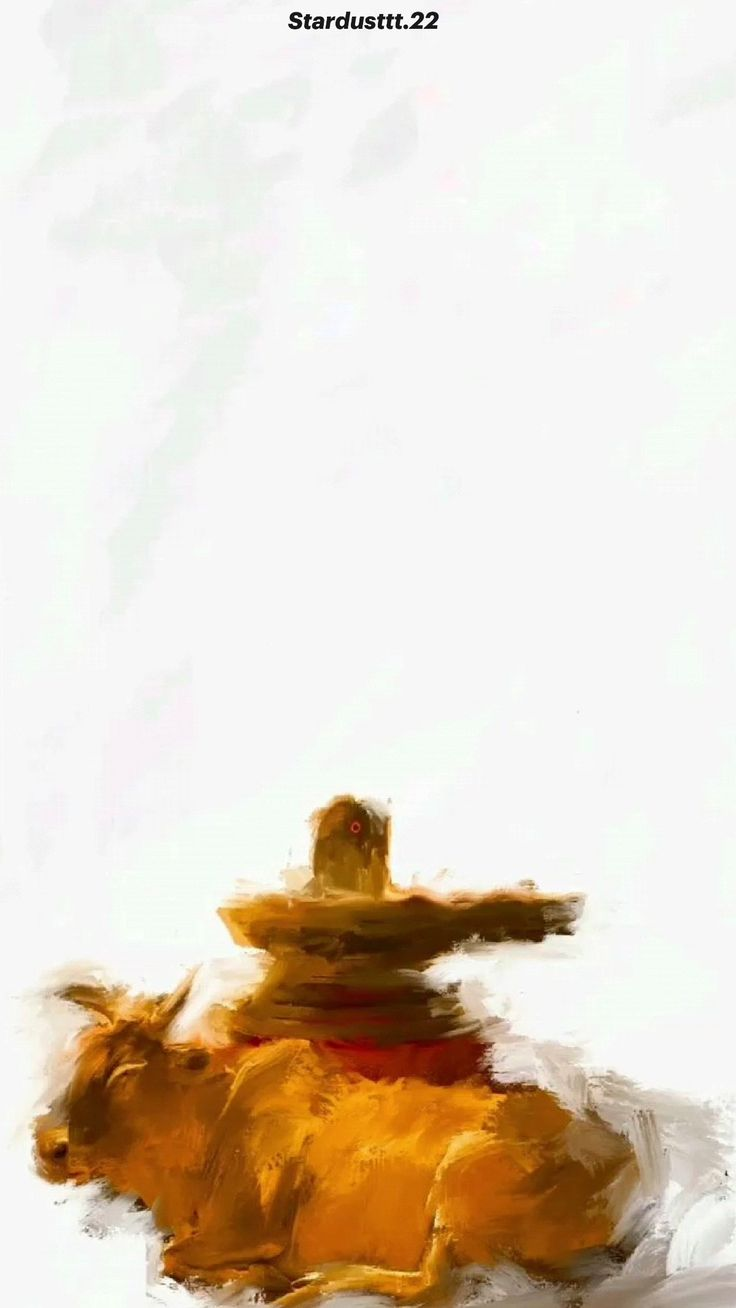
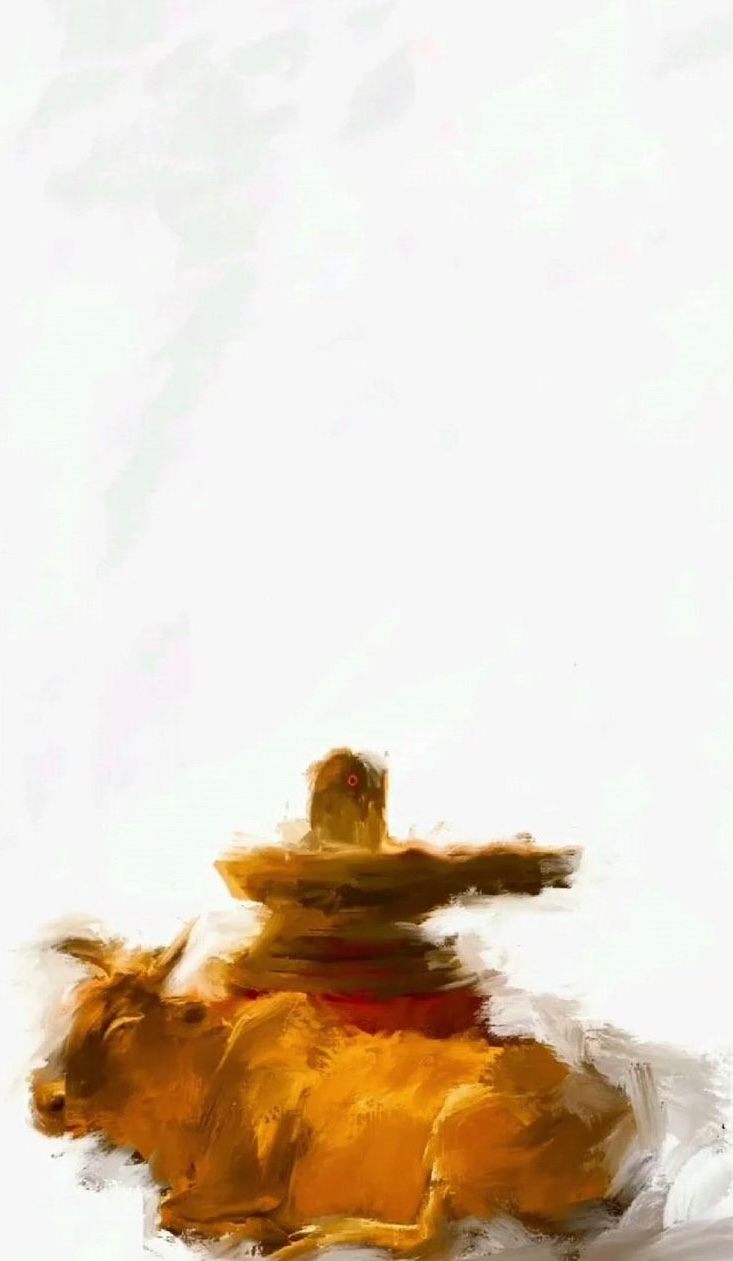
rendering changes

diff --git a/src/image_renderer.py b/src/image_renderer.py
@@ -1,7 +1,6 @@
 """Renders a verse onto a base image and saves to posts/."""
 from __future__ import annotations
 
-import textwrap
 from pathlib import Path
 from typing import Iterable
 
@@ -85,7 +84,6 @@ def _draw_block(
         w = bbox[2] - bbox[0]
         h = bbox[3] - bbox[1]
         x = center_x - w // 2
-        # Subtle shadow for readability over photo
         draw.text((x + 2, y + 2), line, font=font, fill=(0, 0, 0))
         draw.text((x, y), line, font=font, fill=fill)
         y += h + line_spacing
@@ -98,17 +96,14 @@ def _prepare_base(image_path: Path) -> Image.Image:
     target_ratio = config.IMG_WIDTH / config.IMG_HEIGHT
     src_ratio = img.width / img.height
     if src_ratio > target_ratio:
-        # Source is wider; crop sides
         new_width = int(img.height * target_ratio)
         left = (img.width - new_width) // 2
         img = img.crop((left, 0, left + new_width, img.height))
     else:
-        # Source is taller; crop top/bottom
         new_height = int(img.width / target_ratio)
         top = (img.height - new_height) // 2
         img = img.crop((0, top, img.width, top + new_height))
     img = img.resize((config.IMG_WIDTH, config.IMG_HEIGHT), Image.LANCZOS)
-    # A subtle blur softens busy backgrounds for text readability
     img = img.filter(ImageFilter.GaussianBlur(radius=1.2))
     return img
 
@@ -117,58 +112,77 @@ def render_verse(
     base_image_path: Path,
     devanagari_text: str,
     iast_text: str,
+    translation_en: str,
     output_path: Path,
     handle: str | None = None,
 ) -> Path:
     """Render the post image and save to output_path. Returns output_path."""
     base = _prepare_base(base_image_path)
+    composite = base.convert("RGBA")
 
-    # Translucent orange overlay for warmth + text legibility
-    overlay = Image.new(
-        "RGBA",
-        (config.IMG_WIDTH, config.IMG_HEIGHT),
-        (*config.OVERLAY_COLOR, config.OVERLAY_OPACITY),
-    )
-    composite = Image.alpha_composite(base.convert("RGBA"), overlay)
+    # Temporary draw surface for text measurement
     draw = ImageDraw.Draw(composite)
 
     devanagari_font = _load_font(config.FONT_DEVANAGARI, config.DEVANAGARI_FONT_SIZE)
-    iast_font = _load_font(config.FONT_IAST, config.IAST_FONT_SIZE)
+    iast_font      = _load_font(config.FONT_IAST,       config.IAST_FONT_SIZE)
+    english_font   = _load_font(config.FONT_HANDLE,     config.ENGLISH_FONT_SIZE)
 
     max_text_width = config.IMG_WIDTH - 2 * config.SIDE_PADDING
 
-    # Wrap blocks
+    # Wrap all three blocks
     devanagari_lines = _wrap_to_width(devanagari_text, devanagari_font, draw, max_text_width)
-    iast_lines = _wrap_to_width(iast_text, iast_font, draw, max_text_width)
+    iast_lines       = _wrap_to_width(iast_text,       iast_font,       draw, max_text_width)
+    english_lines    = _wrap_to_width(translation_en,  english_font,    draw, max_text_width)
 
-    # Measure for vertical centering
+    # Measure total text height
     _, dev_h = _measure_block(devanagari_lines, devanagari_font, draw, config.LINE_SPACING_DEVANAGARI)
-    _, iast_h = _measure_block(iast_lines, iast_font, draw, config.LINE_SPACING_IAST)
-    total_h = dev_h + config.GAP_BETWEEN_BLOCKS + iast_h
+    _, iast_h = _measure_block(iast_lines,      iast_font,       draw, config.LINE_SPACING_IAST)
+    _, eng_h  = _measure_block(english_lines,   english_font,    draw, config.LINE_SPACING_ENGLISH)
 
-    start_y = max(120, (config.IMG_HEIGHT - total_h) // 2)
+    total_text_h = (
+        dev_h
+        + config.GAP_BETWEEN_BLOCKS
+        + iast_h
+        + config.GAP_BETWEEN_BLOCKS
+        + eng_h
+    )
+
+    # Panel bounds — centered vertically, padded on all sides
+    pad = config.TEXT_PANEL_PADDING
+    panel_top    = max(80, (config.IMG_HEIGHT - total_text_h) // 2 - pad)
+    panel_bottom = panel_top + total_text_h + 2 * pad
+    panel_left   = config.SIDE_PADDING - pad
+    panel_right  = config.IMG_WIDTH - config.SIDE_PADDING + pad
+
+    # Draw semi-transparent orange panel only behind text
+    panel = Image.new("RGBA", (config.IMG_WIDTH, config.IMG_HEIGHT), (0, 0, 0, 0))
+    ImageDraw.Draw(panel).rounded_rectangle(
+        [panel_left, panel_top, panel_right, panel_bottom],
+        radius=config.TEXT_PANEL_CORNER_RADIUS,
+        fill=(*config.OVERLAY_COLOR, config.OVERLAY_OPACITY),
+    )
+    composite = Image.alpha_composite(composite, panel)
+    draw = ImageDraw.Draw(composite)
+
+    # Draw text
     center_x = config.IMG_WIDTH // 2
+    text_top  = panel_top + pad
 
     after_dev = _draw_block(
-        draw,
-        devanagari_lines,
-        devanagari_font,
-        center_x,
-        start_y,
-        config.LINE_SPACING_DEVANAGARI,
-        config.TEXT_COLOR,
+        draw, devanagari_lines, devanagari_font, center_x,
+        text_top, config.LINE_SPACING_DEVANAGARI, config.TEXT_COLOR,
+    )
+    after_iast = _draw_block(
+        draw, iast_lines, iast_font, center_x,
+        after_dev + config.GAP_BETWEEN_BLOCKS, config.LINE_SPACING_IAST, config.TEXT_COLOR,
     )
     _draw_block(
-        draw,
-        iast_lines,
-        iast_font,
-        center_x,
-        after_dev + config.GAP_BETWEEN_BLOCKS,
-        config.LINE_SPACING_IAST,
-        config.TEXT_COLOR,
+        draw, english_lines, english_font, center_x,
+        after_iast + config.GAP_BETWEEN_BLOCKS, config.LINE_SPACING_ENGLISH,
+        config.ENGLISH_TEXT_COLOR,
     )
 
-    # Optional handle at the bottom
+    # Handle at the bottom
     if handle:
         try:
             handle_font = _load_font(config.FONT_HANDLE, config.HANDLE_FONT_SIZE)
@@ -180,7 +194,7 @@ def render_verse(
             draw.text((x + 1, y + 1), handle, font=handle_font, fill=(0, 0, 0))
             draw.text((x, y), handle, font=handle_font, fill=config.HANDLE_COLOR)
         except FileNotFoundError:
-            pass  # handle font is optional
+            pass
 
     output_path.parent.mkdir(parents=True, exist_ok=True)
     composite.convert("RGB").save(output_path, "JPEG", quality=92, optimize=True)

diff --git a/src/config.py b/src/config.py
@@ -35,16 +35,24 @@ FONT_HANDLE = FONTS_DIR / "NotoSans-Regular.ttf"
 IMG_WIDTH = 1080
 IMG_HEIGHT = 1920   # 9:16 for Reels
 REEL_DURATION = 30   # seconds
+
+# Text panel overlay (drawn only behind the text block, not the whole image)
 OVERLAY_COLOR = (180, 80, 20)   # warm orange tint
-OVERLAY_OPACITY = 120           # 0-255; keep low for a subtle wash
+OVERLAY_OPACITY = 160           # 0-255
+TEXT_PANEL_PADDING = 50         # pixels around the text inside the panel
+TEXT_PANEL_CORNER_RADIUS = 28
+
 DEVANAGARI_FONT_SIZE = 56
-IAST_FONT_SIZE = 36
+IAST_FONT_SIZE = 34
+ENGLISH_FONT_SIZE = 30
 HANDLE_FONT_SIZE = 28
-TEXT_COLOR = (245, 240, 230)  # warm off-white
+TEXT_COLOR = (245, 240, 230)        # warm off-white — Devanagari + IAST
+ENGLISH_TEXT_COLOR = (255, 248, 220) # slightly warmer — translation
 HANDLE_COLOR = (220, 215, 205)
 SIDE_PADDING = 80  # pixels from left/right edges
 LINE_SPACING_DEVANAGARI = 14
 LINE_SPACING_IAST = 8
+LINE_SPACING_ENGLISH = 10
 GAP_BETWEEN_BLOCKS = 40
 
 

diff --git a/src/main.py b/src/main.py
@@ -53,6 +53,7 @@ def render_step(dry_run: bool = False) -> dict:
         base_image_path=base_image,
         devanagari_text=verse["text_devanagari"],
         iast_text=verse["text_iast"],
+        translation_en=verse["translation_en"],
         output_path=image_path,
         handle=config.IG_HANDLE or None,
     )